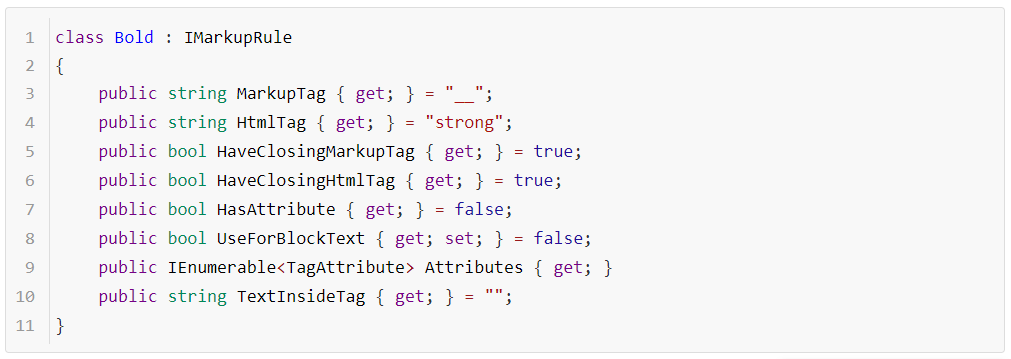
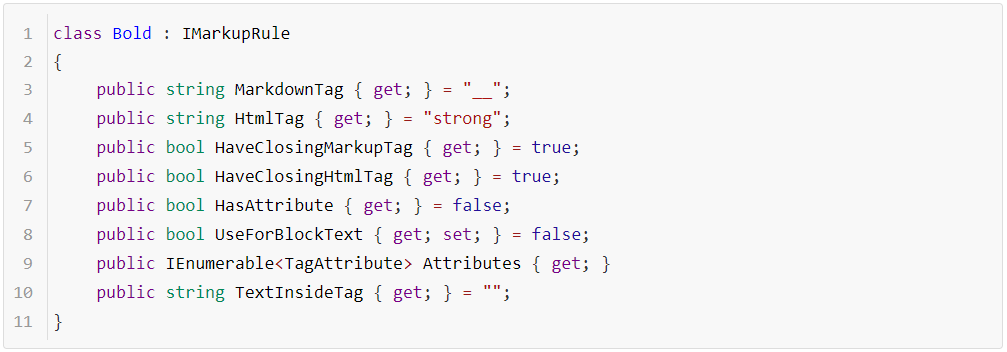
update readme and images

diff --git a/README.md b/README.md
@@ -33,7 +33,7 @@
 ```c#
 interface IMarkupRule
 {
-    string MarkupTag { get; }
+    string MarkdownTag { get; }
     string HtmlTag { get; }
     bool HaveClosingMarkupTag { get; }
     bool HaveClosingHtmlTag { get; }
@@ -49,7 +49,7 @@ interface IMarkupRule
 ```c#
 class Bold : IMarkupRule
 {
-	public string MarkupTag { get; } = "__";
+	public string MarkdownTag { get; } = "__";
 	public string HtmlTag { get; } = "strong";
 	public bool HaveClosingMarkupTag { get; } = true;
 	public bool HaveClosingHtmlTag { get; } = true;
@@ -117,6 +117,8 @@ interface ILanguageConverter
 
 У Дениса была хреновая архитектура, но Артур пришел и прокачал ее. А еще он жмет двацатку на турничках.
 
+А на самом деле, вклад в проект был поровну и большую часть времени мы делали проект вместе. Иногда на 2-х компьютерах, иногда на одном. 
+
 ## Точки расширения
 
 1. Из уже написанных парсеров, а их около 10, можно выбрать тот, который вам подходит и просто  написать свое правило(`IMarkupRule`), указать его в `Bindings.cs`. Например, я потратил 5 минут, чтобы добавить поддержку зачеркнутого текста.
@@ -134,6 +136,3 @@ interface ILanguageConverter
 Да, наша архитектура не идеальна, но зато мы знаем теперь, как нужно было делать.
 
 ![](images/field.png)
-
-
-
